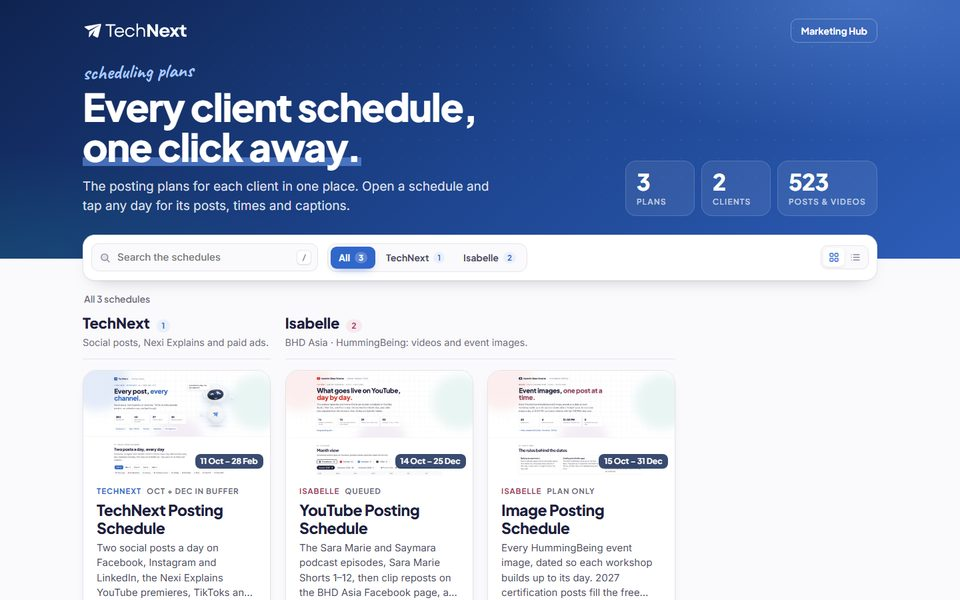
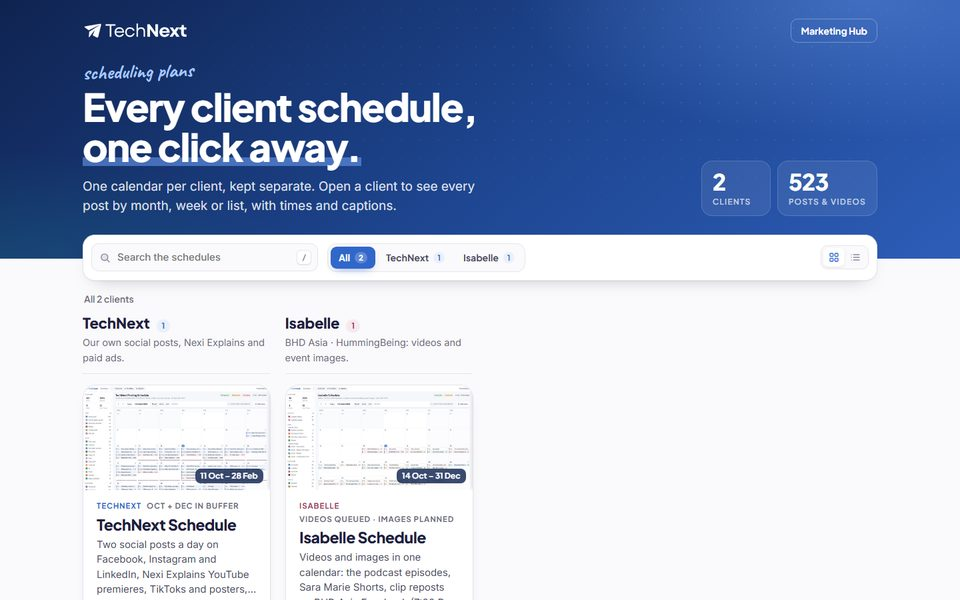
Hub: Scheduling Plans card = client launcher, TechNext, Isabelle (isabelle-schedule repo)

diff --git a/index.html b/index.html
@@ -146,13 +146,13 @@ window.APPS=[
     cat:'social',
     img:'assets/img/scheduling.jpg',
     badges:[{k:'live',t:'Live'}],
-    desc:'One calendar app for every client schedule: All schedules together, TechNext on its own (social posts, Nexi Explains, TikTok, holiday posts, paid ads), and Isabelle (videos + HummingBeing event images). Month, week and list views with filters.',
+    desc:'One calendar per client, kept separate: TechNext (social posts, Nexi Explains, TikTok, holiday posts, paid ads) and Isabelle (videos and HummingBeing event images together). Month, week and list views with filters.',
     use:'Before you post or queue anything in Buffer. Click any post for its times per platform and a copy-ready caption.',
     tags:['schedule','scheduling','calendar','posting plan','buffer','social media','captions','nexi explains','youtube','tiktok','isabelle','bhd asia','hummingbeing','shorts','reposts','images'],
     links:[
-      {label:'All schedules',href:'https://technextmarketing.github.io/technext-plans/all-schedules.html'},
+      {label:'All clients',href:'https://technextmarketing.github.io/technext-plans/all-schedules.html'},
       {label:'TechNext',href:'https://technextmarketing.github.io/technext-plans/schedule.html'},
-      {label:'Isabelle',href:'https://technextmarketing.github.io/isabelle-youtube-schedule/'}
+      {label:'Isabelle',href:'https://technextmarketing.github.io/isabelle-schedule/'}
     ]
   },
   {
